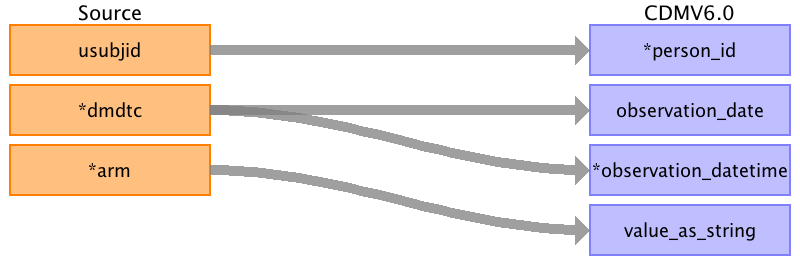
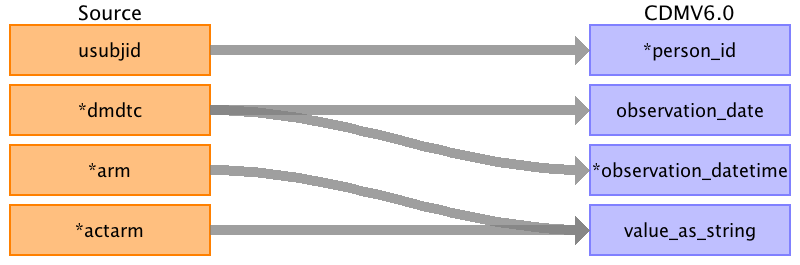
updated trial arm assignments mapping

Changed region(s): [[0.0, 0.7547, 0.6875, 0.966]]

diff --git a/docs/trial arm assignments/observation.md b/docs/trial arm assignments/observation.md
@@ -7,15 +7,15 @@
 | Destination Field | Source field | Logic | Comment field |
 | --- | --- | --- | --- |
 | observation_id |  |  |  |
-| person_id | usubjid |  |  |
-| observation_concept_id |  |  |  |
+| person_id | usubjid |  | usubjid actually stored as person value and mapped to auto incremented person id<br> |
+| observation_concept_id |  |  | set all records to concept_id = 37208111 (clinical trial arm) |
 | observation_date | dmdtc |  |  |
 | observation_datetime | dmdtc |  |  |
-| observation_type_concept_id |  |  |  |
+| observation_type_concept_id |  |  | use "Case Report Form" observation type: 32809 |
 | value_as_number |  |  |  |
-| value_as_string | arm |  |  |
+| value_as_string | arm<br>actarm |  | Source table contains 2 observations: arm and actarm. use a qualifier concept to distinguish |
 | value_as_concept_id |  |  |  |
-| qualifier_concept_id |  |  |  |
+| qualifier_concept_id |  |  | for observation records dervice from 'arm' field, hardcode 'Planned' qualifier concept id: 397943006 |
 | unit_concept_id |  |  |  |
 | provider_id |  |  |  |
 | visit_occurrence_id |  |  |  |

diff --git a/docs/trial arm assignments/source_appendix.md b/docs/trial arm assignments/source_appendix.md
@@ -321,9 +321,7 @@
 | usubjid | VARCHAR |  |  |
 | dmdtc | DATE | 2012-12-13 |  |
 | arm | VARCHAR | Xanomeline High Dose |  |
-| armcd | VARCHAR | Xan_Hi |  |
 | actarm | VARCHAR | Xanomeline High Dose |  |
-| actarmcd | VARCHAR | Xan_Hi |  |
 | subjid | INT |  |  |
 | rfstdtc | DATE |  |  |
 | rfendtc | DATE |  |  |
@@ -339,6 +337,8 @@
 | sex | VARCHAR | F |  |
 | race | VARCHAR | WHITE |  |
 | ethnic | VARCHAR | NOT HISPANIC OR LATINO |  |
+| armcd | VARCHAR | Xan_Hi |  |
+| actarmcd | VARCHAR | Xan_Hi |  |
 | country | VARCHAR | USA |  |
 | dmdy | INT | -4 |  |
 
